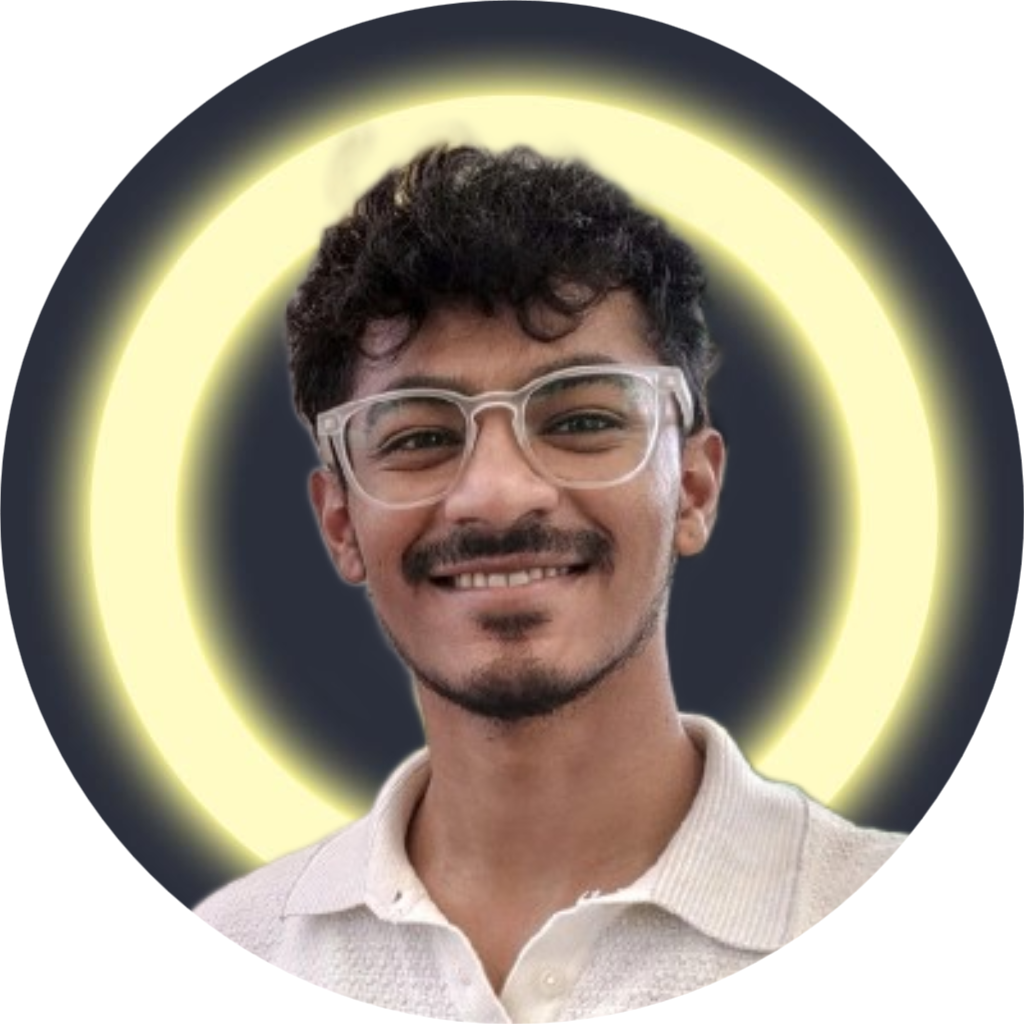
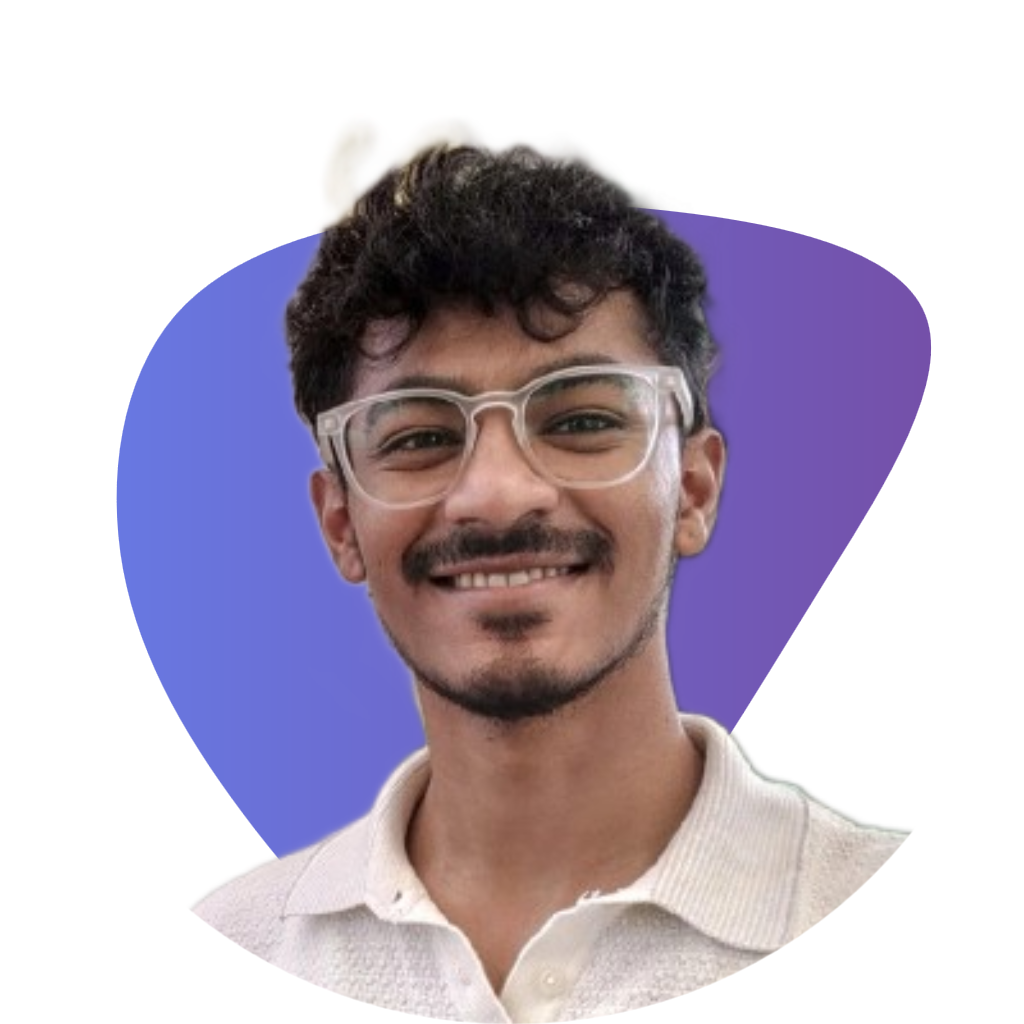
Updated profile picture size and improved layout in Index page

diff --git a/src/pages/Index.tsx b/src/pages/Index.tsx
@@ -12,35 +12,35 @@ const Index = () => {
   return (
     <div className="min-h-screen bg-background">
       <Navigation />
-      
+
       {/* Hero Section */}
       <section className="pt-32 pb-20 px-4 sm:px-6">
         <div className="container mx-auto max-w-6xl">
           <div className="text-center animate-fade-in">
             {/* Profile Picture */}
-<div className="w-24 h-24 rounded-full mx-auto mb-8 overflow-hidden border-4 border-primary/20">
-  <img 
-    src="/profile.png" 
-    alt="Akhilesh Varute" 
-    className="w-full h-full object-cover"
-  />
-</div>
-            
+            <div className="w-32 h-32 rounded-full mx-auto mb-8 overflow-hidden border-4 border-primary/20">
+              <img
+                src="/profile.png"
+                alt="Akhilesh Varute"
+                className="w-full h-full object-cover"
+              />
+            </div>
+
             <h1 className="text-5xl md:text-7xl font-bold mb-6 tracking-tight">
               Cloud & AI Solutions
               <br />
               <span className="gradient-text">Engineer</span>
             </h1>
-            
+
             <p className="text-xl md:text-2xl text-muted-foreground mb-8 max-w-3xl mx-auto">
               Designing Scalable Gen AI Systems on AWS
             </p>
-            
+
             <p className="text-lg text-muted-foreground mb-12 max-w-2xl mx-auto">
-              I architect cloud-native platforms that combine AI intelligence with enterprise-grade reliability. 
+              I architect cloud-native platforms that combine AI intelligence with enterprise-grade reliability.
               From concept to production, I build systems that scale.
             </p>
-            
+
             <div className="flex flex-col sm:flex-row gap-4 justify-center mb-12">
               <Button size="lg" asChild>
                 <a href="#featured-work">
@@ -52,7 +52,7 @@ const Index = () => {
                 <Link to="/contact">Get In Touch</Link>
               </Button>
             </div>
-            
+
             <div className="flex items-center justify-center gap-4 text-sm text-muted-foreground">
               <Cloud className="h-5 w-5 text-primary" />
               <span>AWS Certified Developer → Solutions Architect</span>
@@ -76,7 +76,7 @@ const Index = () => {
                 Designing scalable, high-availability systems on AWS with multi-AZ deployments and auto-scaling.
               </p>
             </div>
-            
+
             <div className="text-center animate-fade-in-delay">
               <div className="h-16 w-16 bg-primary/10 rounded-2xl flex items-center justify-center mx-auto mb-6">
                 <Zap className="h-8 w-8 text-primary" />
@@ -86,7 +86,7 @@ const Index = () => {
                 Building intelligent cloud systems with AWS Bedrock, OpenAI, and LangChain for automated operations.
               </p>
             </div>
-            
+
             <div className="text-center animate-fade-in-delay">
               <div className="h-16 w-16 bg-primary/10 rounded-2xl flex items-center justify-center mx-auto mb-6">
                 <Code className="h-8 w-8 text-primary" />
@@ -111,7 +111,7 @@ const Index = () => {
               Production systems architected from concept to deployment, serving enterprise clients at scale.
             </p>
           </div>
-          
+
           <div className="grid md:grid-cols-2 gap-8 mb-12">
             {featuredProjects.map((project) => (
               <ProjectCard
@@ -127,7 +127,7 @@ const Index = () => {
               />
             ))}
           </div>
-          
+
           <div className="text-center">
             <Button variant="outline" size="lg" asChild>
               <Link to="/projects">
@@ -147,7 +147,7 @@ const Index = () => {
               Ready to Build Something <span className="gradient-text">Scalable</span>?
             </h2>
             <p className="text-lg text-muted-foreground mb-8 max-w-2xl mx-auto">
-              I'm looking for Cloud Solutions Engineer or Solutions Architect roles where I can design 
+              I'm looking for Cloud Solutions Engineer or Solutions Architect roles where I can design
               systems at the intersection of AI and cloud computing.
             </p>
             <div className="flex flex-col sm:flex-row gap-4 justify-center">
@@ -214,7 +214,7 @@ const Index = () => {
               <h2 className="text-3xl md:text-4xl font-bold mb-6">
                 What Makes Me <span className="gradient-text">Different</span>
               </h2>
-              
+
               <div className="space-y-6 text-muted-foreground">
                 <div className="flex items-start gap-4">
                   <div className="flex-shrink-0 w-8 h-8 rounded-full bg-primary/20 flex items-center justify-center mt-1">
@@ -225,7 +225,7 @@ const Index = () => {
                       Architecture-First at 1.5 Years
                     </h3>
                     <p>
-                      Most developers at my experience level focus on feature coding. I've architected 
+                      Most developers at my experience level focus on feature coding. I've architected
                       full production platforms used by enterprise clients - from system design to deployment.
                     </p>
                   </div>
@@ -240,7 +240,7 @@ const Index = () => {
                       Gen AI + Cloud Expertise
                     </h3>
                     <p>
-                      The intersection of AI and cloud is the future. I have hands-on production experience 
+                      The intersection of AI and cloud is the future. I have hands-on production experience
                       with AWS Bedrock, LangChain, and building GenAI-powered cloud operations platforms.
                     </p>
                   </div>
@@ -255,8 +255,8 @@ const Index = () => {
                       Solutions Architect Mindset
                     </h3>
                     <p>
-                      I don't just write code - I design systems. Every project starts with understanding 
-                      requirements, evaluating trade-offs, and choosing the right architecture patterns before 
+                      I don't just write code - I design systems. Every project starts with understanding
+                      requirements, evaluating trade-offs, and choosing the right architecture patterns before
                       touching a keyboard.
                     </p>
                   </div>
@@ -271,8 +271,8 @@ const Index = () => {
                       Real Production Impact
                     </h3>
                     <p>
-                      My projects aren't just portfolio pieces - they're live systems processing real workloads 
-                      for actual enterprise clients. I understand what it takes to build for scale, reliability, 
+                      My projects aren't just portfolio pieces - they're live systems processing real workloads
+                      for actual enterprise clients. I understand what it takes to build for scale, reliability,
                       and business value.
                     </p>
                   </div>
@@ -281,8 +281,8 @@ const Index = () => {
 
               <div className="mt-8 pt-8 border-t border-primary/20">
                 <p className="text-sm text-muted-foreground italic">
-                  "At 1.5 years, I bring the system thinking of a Solutions Architect with the hands-on 
-                  execution skills of a Cloud Engineer - architecting platforms that combine AI intelligence 
+                  "At 1.5 years, I bring the system thinking of a Solutions Architect with the hands-on
+                  execution skills of a Cloud Engineer - architecting platforms that combine AI intelligence
                   with enterprise-grade reliability."
                 </p>
               </div>
@@ -299,7 +299,7 @@ const Index = () => {
               Let's Build Something <span className="gradient-text">Scalable</span>
             </h2>
             <p className="text-lg text-muted-foreground mb-8">
-              Looking for Cloud Solutions Engineer or Solutions Architect opportunities 
+              Looking for Cloud Solutions Engineer or Solutions Architect opportunities
               where I can design systems that matter.
             </p>
             <div className="flex flex-col sm:flex-row gap-4 justify-center">

diff --git a/src/components/Navigation.tsx b/src/components/Navigation.tsx
@@ -6,54 +6,53 @@ import { useState } from "react";
 const Navigation = () => {
   const [isMenuOpen, setIsMenuOpen] = useState(false);
   const location = useLocation();
-  
+
   const isActive = (path: string) => location.pathname === path;
-  
+
   const navLinks = [
     { path: "/", label: "Home" },
     { path: "/about", label: "About" },
     { path: "/projects", label: "Projects" },
     { path: "/contact", label: "Contact" },
   ];
-  
+
   return (
     <nav className="fixed top-0 left-0 right-0 z-50 bg-background/80 backdrop-blur-lg border-b border-border">
       <div className="container mx-auto px-4 sm:px-6">
         <div className="flex items-center justify-between h-16">
           {/* Logo */}
           <Link to="/" className="text-xl font-bold gradient-text">
-            AV
+            Akhilesh.
           </Link>
-          
+
           {/* Desktop Navigation */}
           <div className="hidden md:flex items-center gap-8">
             {navLinks.map((link) => (
               <Link
                 key={link.path}
                 to={link.path}
-                className={`text-sm font-medium transition-colors hover:text-primary ${
-                  isActive(link.path) ? "text-primary" : "text-muted-foreground"
-                }`}
+                className={`text-sm font-medium transition-colors hover:text-primary ${isActive(link.path) ? "text-primary" : "text-muted-foreground"
+                  }`}
               >
                 {link.label}
               </Link>
             ))}
           </div>
-          
+
           {/* Social Links & CTA - Desktop */}
           <div className="hidden md:flex items-center gap-4">
-            <a 
-              href="https://github.com/Akhilesh-Varute" 
-              target="_blank" 
+            <a
+              href="https://github.com/Akhilesh-Varute"
+              target="_blank"
               rel="noopener noreferrer"
               className="text-muted-foreground hover:text-primary transition-colors"
               aria-label="GitHub"
             >
               <Github className="h-5 w-5" />
             </a>
-            <a 
-              href="https://www.linkedin.com/in/akhileshvarute" 
-              target="_blank" 
+            <a
+              href="https://www.linkedin.com/in/akhileshvarute"
+              target="_blank"
               rel="noopener noreferrer"
               className="text-muted-foreground hover:text-primary transition-colors"
               aria-label="LinkedIn"
@@ -73,7 +72,7 @@ const Navigation = () => {
               </Link>
             </Button>
           </div>
-          
+
           {/* Mobile Menu Button */}
           <button
             onClick={() => setIsMenuOpen(!isMenuOpen)}
@@ -84,7 +83,7 @@ const Navigation = () => {
           </button>
         </div>
       </div>
-      
+
       {/* Mobile Menu */}
       {isMenuOpen && (
         <div className="md:hidden border-t border-border bg-background/95 backdrop-blur-lg">
@@ -94,26 +93,25 @@ const Navigation = () => {
                 key={link.path}
                 to={link.path}
                 onClick={() => setIsMenuOpen(false)}
-                className={`block py-2 text-sm font-medium transition-colors ${
-                  isActive(link.path) ? "text-primary" : "text-muted-foreground"
-                }`}
+                className={`block py-2 text-sm font-medium transition-colors ${isActive(link.path) ? "text-primary" : "text-muted-foreground"
+                  }`}
               >
                 {link.label}
               </Link>
             ))}
             <div className="flex items-center gap-4 pt-3 border-t border-border">
-              <a 
-                href="https://github.com/Akhilesh-Varute" 
-                target="_blank" 
+              <a
+                href="https://github.com/Akhilesh-Varute"
+                target="_blank"
                 rel="noopener noreferrer"
                 className="text-muted-foreground hover:text-primary transition-colors"
                 aria-label="GitHub"
               >
                 <Github className="h-5 w-5" />
               </a>
-              <a 
-                href="https://www.linkedin.com/in/akhileshvarute" 
-                target="_blank" 
+              <a
+                href="https://www.linkedin.com/in/akhileshvarute"
+                target="_blank"
                 rel="noopener noreferrer"
                 className="text-muted-foreground hover:text-primary transition-colors"
                 aria-label="LinkedIn"
